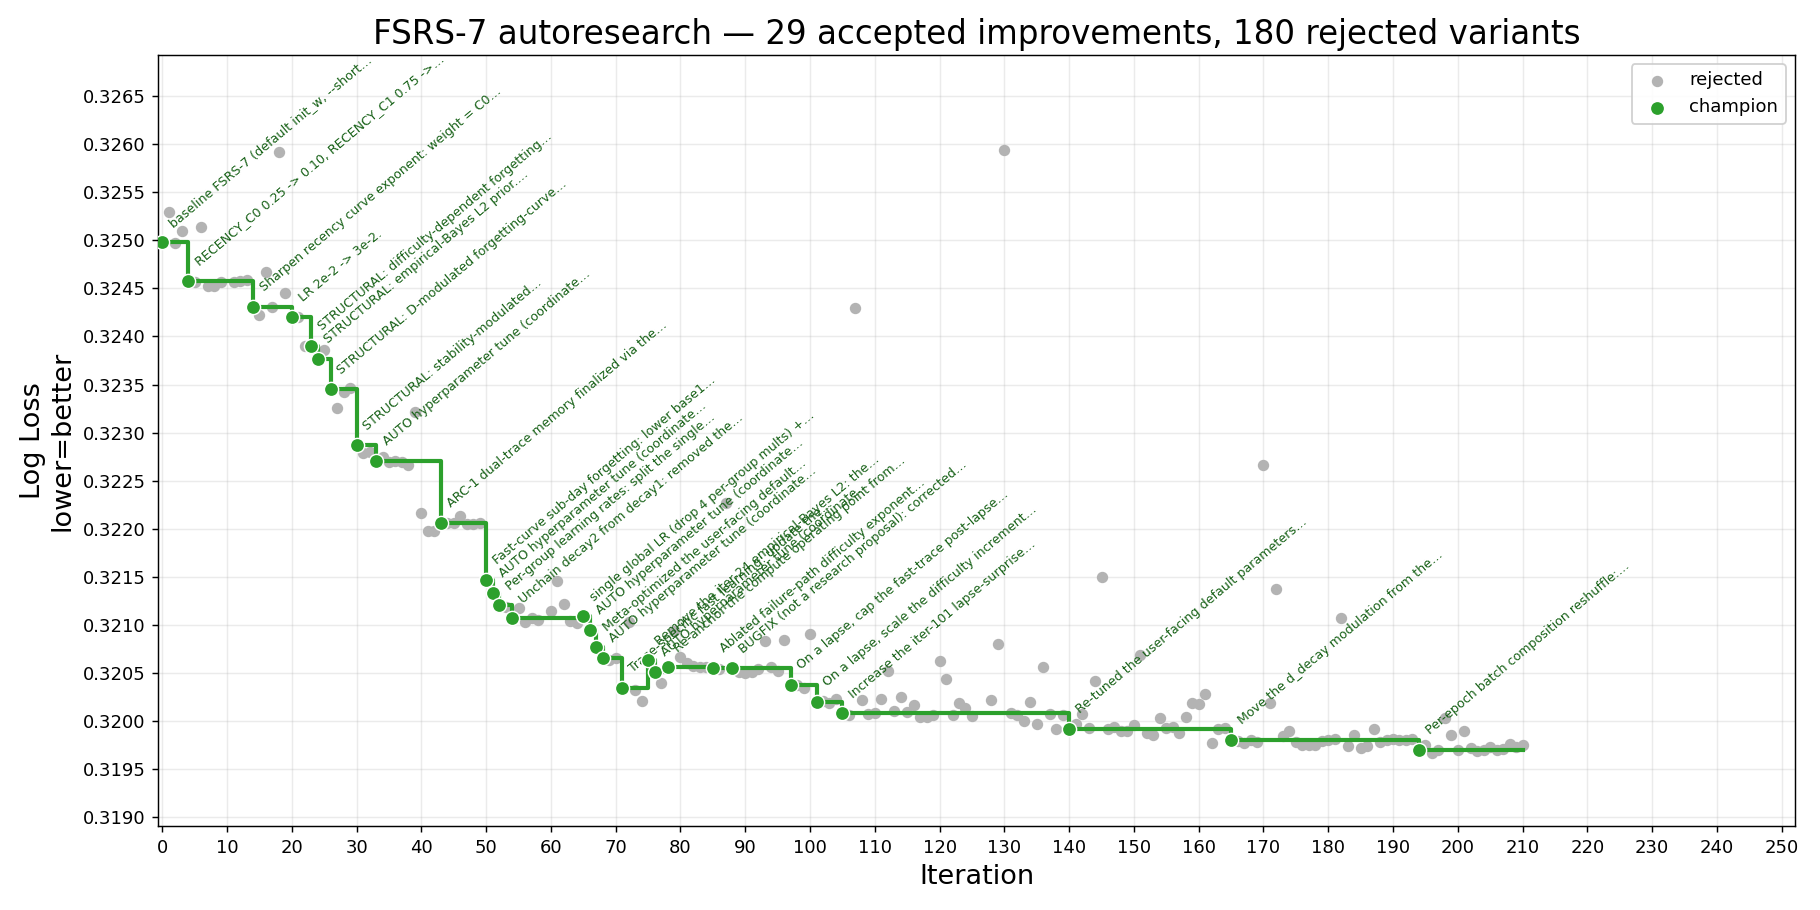
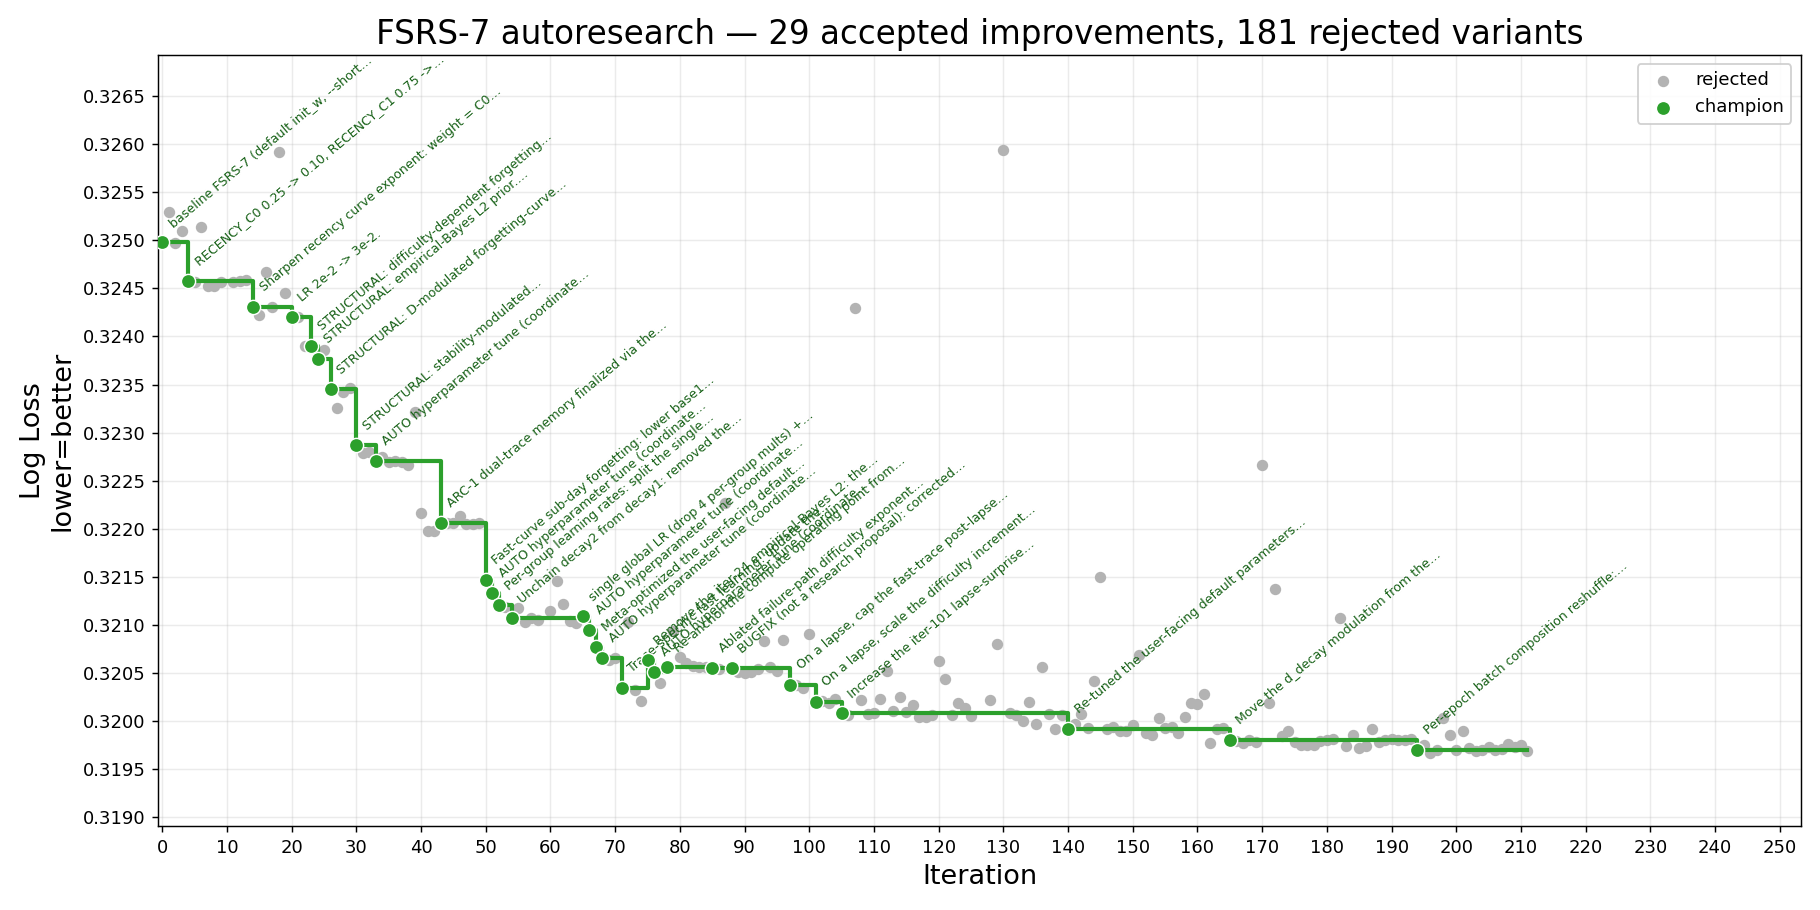
iter-211 rejected (+1.9e-5, bar 0.0001): gated defaults meta-opt; proxy and trained metric diverge past step 5
30 central-diff steps on the 0-epoch default proxy with the full recency
benchmark gating every 5 steps (new --gated-recency mode, kept as permanent
tooling). Proxy fell -6.5e-4; the real metric peaked at +1.9e-5 by step 5 and
went negative after — the gate correctly stopped a last-step selection that
would have wired in a regression. Defaults drift since iter-140 is worth only
~+1.9e-5 trained; re-run the mode after the next accepted structural change.

diff --git a/result/history.md b/result/history.md
@@ -1,6 +1,6 @@
 # FSRS-7 autoresearch — iteration history
 
-_210 record(s). Generated from `history.jsonl` — do not edit by hand._
+_211 record(s). Generated from `history.jsonl` — do not edit by hand._
 
 | # | Time (UTC) | Thresh. | LL before | LL after | Δ LL | Cx before | Cx after | Δ Cx % | Status | Summary |
 |--:|---|---:|---:|---:|---:|---:|---:|---:|---|---|
@@ -214,3 +214,4 @@ _210 record(s). Generated from `history.jsonl` — do not edit by hand._
 | 208 | 2026-06-11T14:26:52 | 0.0001 | 0.31970 | 0.31976 | -0.00006 | 18,442 | 18,442 | +0.00% | rejected | Recalibrate 30 L2-active sigmas to realized population spread (p99-p01)/4.653, railed [0.5x, 4x]; bundled hp_tune. |
 | 209 | 2026-06-11T15:47:27 | 0.0001 | 0.31970 | 0.31972 | -0.00002 | 19,909 | 19,909 | +0.00% | rejected | Scale per-row L2 strength by (256/n)^alpha, stronger prior for shorter histories; alpha swept {0.25, 0.5}; bundled hp_tune. |
 | 210 | 2026-06-11T16:06:02 | 0.0000 | 0.31970 | 0.31975 | -0.00005 | 19,909 | 19,909 | +0.00% | rejected | Pure ablation: pin base_weight2 w[28] to 1.0; base_weight1 becomes the mixture ratio, bounds [0.01, 10]. |
+| 211 | 2026-06-11T17:29:05 | 0.0001 | 0.31970 | 0.31968 | +0.00002 | 19,909 | 19,909 | +0.00% | rejected | Defaults re-tune via gated meta-opt: 30 central-diff steps on 0-epoch proxy, recency-evaluated every 5 steps, select on recency. |
